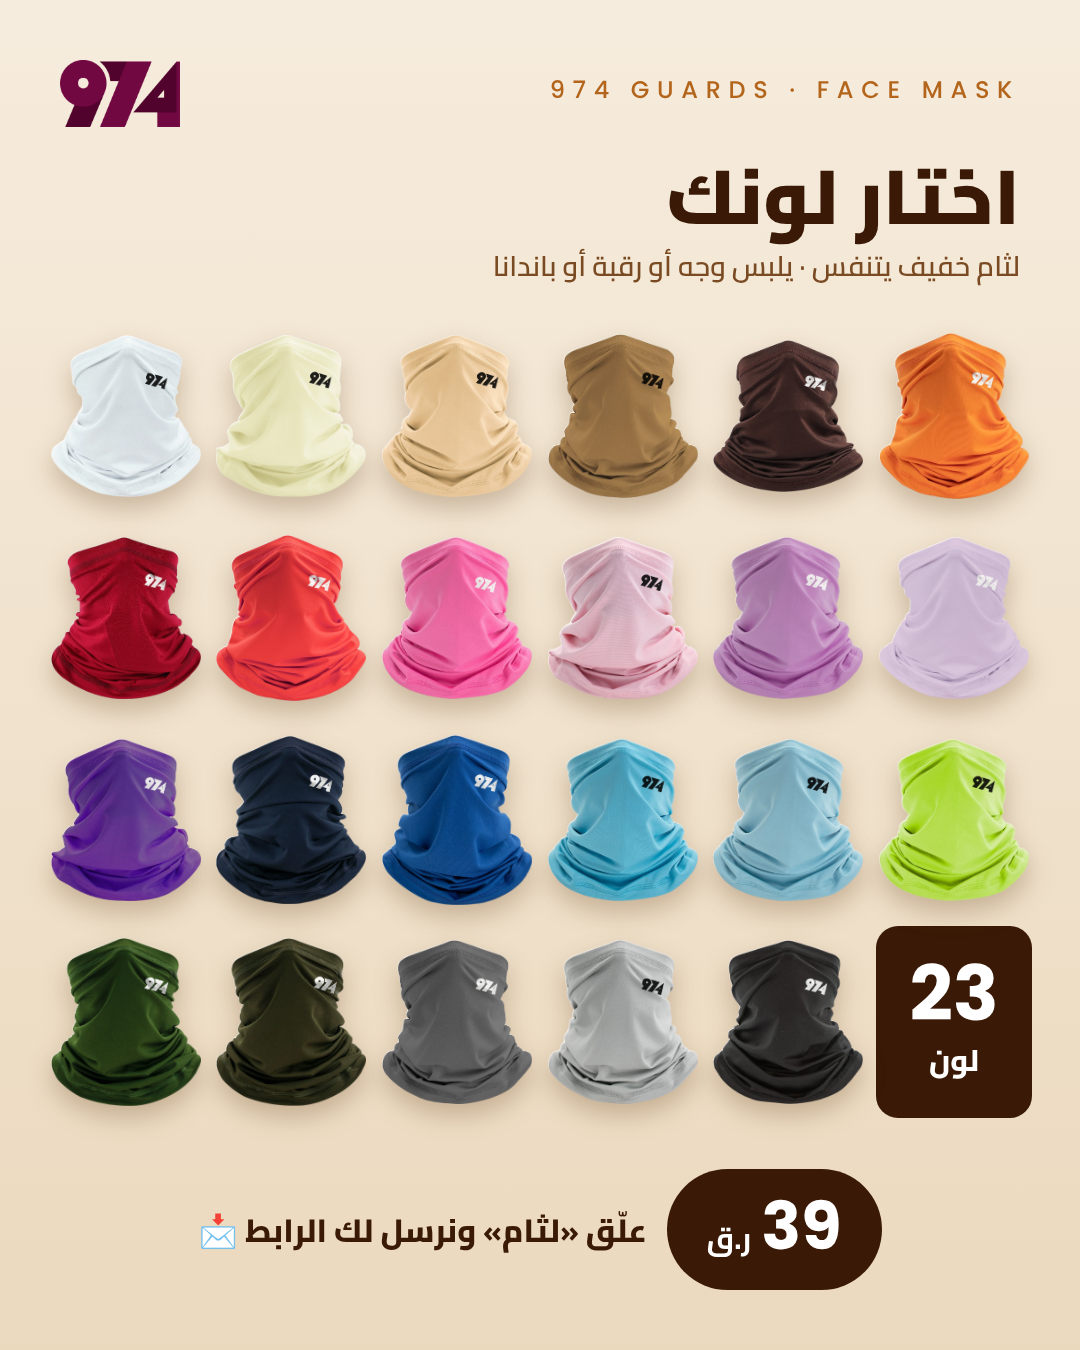
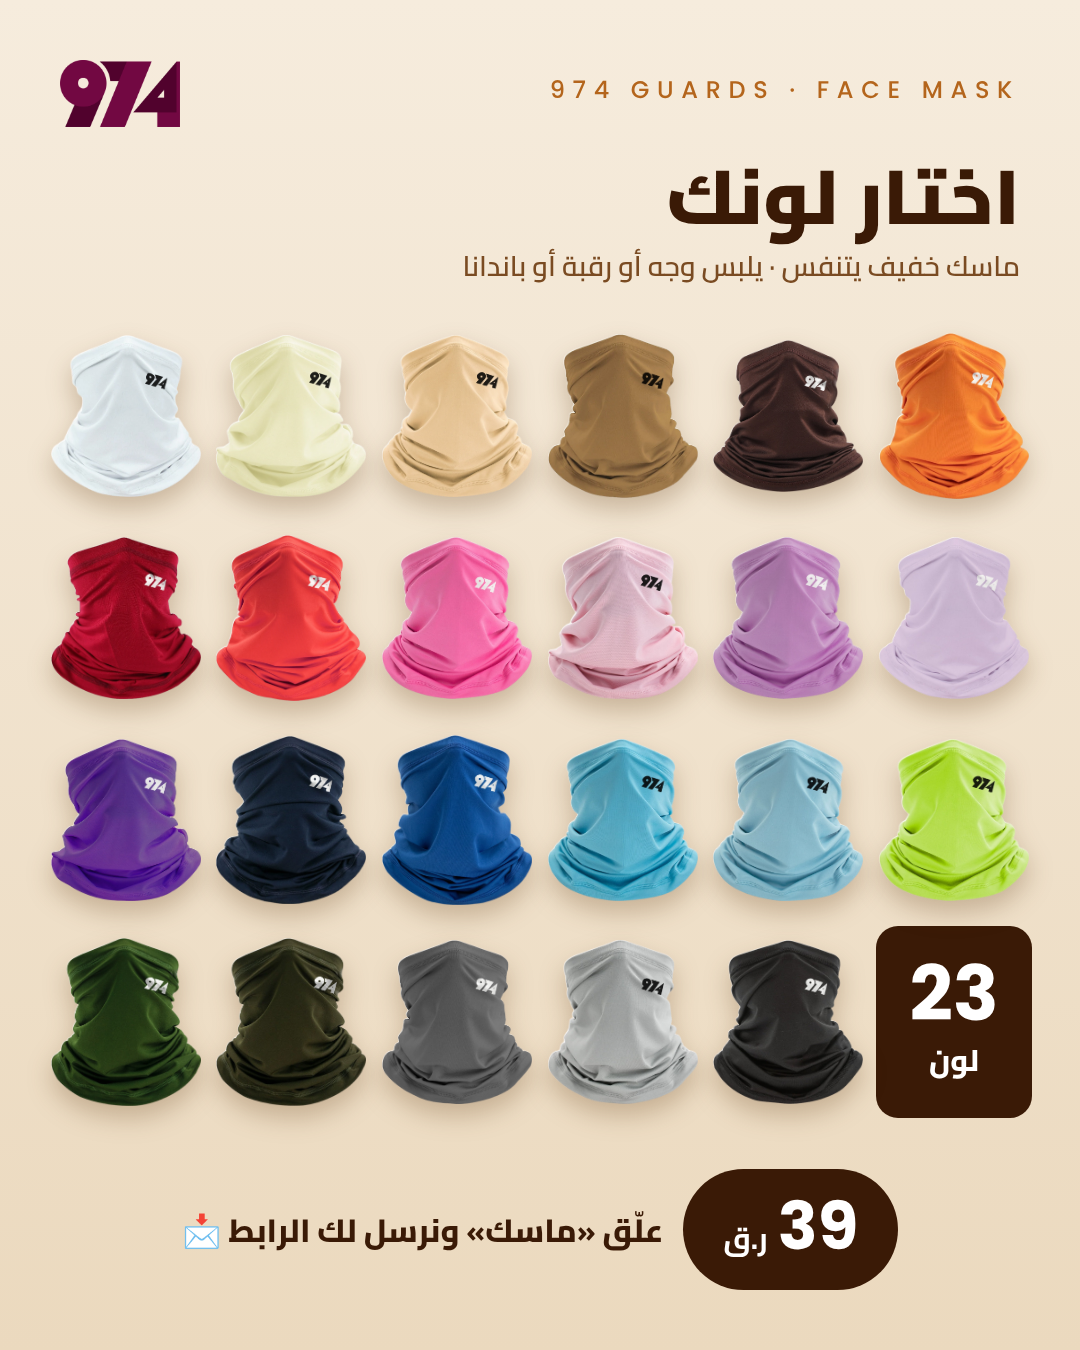
Face mask: headline ماسكك جاهز, CTA ماسك
Claude-Session: https://claude.ai/code/session_01K6HDWNrArsGSJekW1VcEzV

Changed region(s): [[0.1528, 0.8711, 0.8556, 0.9644], [0.4278, 0.1867, 0.9472, 0.2178]]

diff --git a/posts/2026-11/face-mask/src/colors.html b/posts/2026-11/face-mask/src/colors.html
@@ -22,8 +22,8 @@ body{width:1080px;overflow:hidden;position:relative;font-family:Cairo}
 <img class="abs" src="mark-c.png" style="left:60px;top:60px;width:120px">
 <div class="abs kick" style="right:60px;top:72px;color:#B4651C">974 GUARDS · FACE MASK</div>
 <div class="abs" style="right:60px;top:125px;font:900 76px Cairo;direction:rtl;color:#3A1A06">اختار لونك</div>
-<div class="abs" style="right:60px;top:240px;font:600 28px Cairo;direction:rtl;color:#7A4B22">لثام خفيف يتنفس · يلبس وجه أو رقبة أو باندانا</div>
+<div class="abs" style="right:60px;top:240px;font:600 28px Cairo;direction:rtl;color:#7A4B22">ماسك خفيف يتنفس · يلبس وجه أو رقبة أو باندانا</div>
 <div class="g"><div class="cell"><img src="cut/white.png"></div><div class="cell"><img src="cut/cream.png"></div><div class="cell"><img src="cut/beige.png"></div><div class="cell"><img src="cut/khaki.png"></div><div class="cell"><img src="cut/brown.png"></div><div class="cell"><img src="cut/orange.png"></div><div class="cell"><img src="cut/red.png"></div><div class="cell"><img src="cut/brightred.png"></div><div class="cell"><img src="cut/hotpink.png"></div><div class="cell"><img src="cut/pink.png"></div><div class="cell"><img src="cut/lilac.png"></div><div class="cell"><img src="cut/lightpurple.png"></div><div class="cell"><img src="cut/purple.png"></div><div class="cell"><img src="cut/navy.png"></div><div class="cell"><img src="cut/royalblue.png"></div><div class="cell"><img src="cut/skyblue.png"></div><div class="cell"><img src="cut/babyblue.png"></div><div class="cell"><img src="cut/lightgreen.png"></div><div class="cell"><img src="cut/green.png"></div><div class="cell"><img src="cut/armygreen.png"></div><div class="cell"><img src="cut/darkgrey.png"></div><div class="cell"><img src="cut/grey.png"></div><div class="cell"><img src="cut/black.png"></div><div class="cnt"><b>23</b><span>لون</span></div></div>
 <div class="abs" style="left:0;right:0;bottom:60px;display:flex;justify-content:center;gap:20px;direction:rtl;align-items:center">
-<div class="pill" style="background:#3A1A06;color:#fff;box-shadow:none">39 <i>ر.ق</i></div><div style="font:800 32px Cairo;color:#3A1A06">علّق «لثام» ونرسل لك الرابط 📩</div></div>
+<div class="pill" style="background:#3A1A06;color:#fff;box-shadow:none">39 <i>ر.ق</i></div><div style="font:800 32px Cairo;color:#3A1A06">علّق «ماسك» ونرسل لك الرابط 📩</div></div>
 </body></html>

diff --git a/posts/2026-11/face-mask/src/story.html b/posts/2026-11/face-mask/src/story.html
@@ -18,11 +18,11 @@ body{width:1080px;overflow:hidden;position:relative;font-family:Cairo}
 <div class="abs" style="inset:0;background:linear-gradient(rgba(30,10,30,.4),rgba(0,0,0,0) 30%,rgba(0,0,0,0) 60%,rgba(40,15,0,.55))"></div>
 <img class="abs" src="mark-w.png" style="left:50%;transform:translateX(-50%);top:240px;width:140px">
 <div class="abs kick" style="left:0;right:0;text-align:center;top:340px;padding-left:.32em">974 GUARDS · FACE MASK</div>
-<div class="abs h" style="left:0;right:0;top:390px;text-align:center">شمس.. غبار.. هوا<br><b>لثامك جاهز</b> 🏜</div>
+<div class="abs h" style="left:0;right:0;top:390px;text-align:center">شمس.. غبار.. هوا<br><b>ماسكك جاهز</b> 🏜</div>
 <img class="m" src="cut/khaki.png" style="left:40px;top:900px;width:280px">
 <img class="m" src="cut/black.png" style="left:365px;top:820px;width:350px">
 <img class="m" src="cut/orange.png" style="left:760px;top:900px;width:280px">
 <div class="abs chips" style="left:0;right:0;top:1330px"><span>23 لون</span><span>يتنفس</span><span>45 غرام</span></div>
 <div class="abs" style="left:0;right:0;top:1440px;text-align:center"><div class="pill">39 <i>ر.ق</i></div></div>
-<div class="abs cta" style="left:0;right:0;top:1590px;text-align:center">علّق «لثام» ونرسل لك الرابط 📩</div>
+<div class="abs cta" style="left:0;right:0;top:1590px;text-align:center">علّق «ماسك» ونرسل لك الرابط 📩</div>
 </body></html>

diff --git a/posts/2026-11/face-mask/src/hero.html b/posts/2026-11/face-mask/src/hero.html
@@ -18,11 +18,11 @@ body{width:1080px;overflow:hidden;position:relative;font-family:Cairo}
 <div class="abs" style="inset:0;background:linear-gradient(rgba(30,10,30,.35),rgba(0,0,0,0) 35%,rgba(0,0,0,0) 65%,rgba(40,15,0,.45))"></div>
 <img class="abs" src="mark-w.png" style="left:60px;top:60px;width:120px">
 <div class="abs kick" style="right:60px;top:72px">974 GUARDS · FACE MASK</div>
-<div class="abs h" style="right:0;left:0;top:130px;text-align:center">شمس.. غبار.. هوا<br><b>لثامك جاهز</b> 🏜</div>
+<div class="abs h" style="right:0;left:0;top:130px;text-align:center">شمس.. غبار.. هوا<br><b>ماسكك جاهز</b> 🏜</div>
 <img class="m" src="cut/khaki.png" style="left:40px;top:600px;width:280px">
 <img class="m" src="cut/black.png" style="left:365px;top:520px;width:350px">
 <img class="m" src="cut/orange.png" style="left:760px;top:600px;width:280px">
 <div class="abs chips" style="left:0;right:0;top:1000px"><span>23 لون</span><span>يتنفس</span><span>خفيف 45 غرام</span><span>يلبس مع النظارة</span></div>
 <div class="abs" style="left:0;right:0;top:1100px;text-align:center"><div class="pill">39 <i>ر.ق</i></div></div>
-<div class="abs cta" style="left:0;right:0;top:1250px;text-align:center">علّق «لثام» ونرسل لك الرابط 📩</div>
+<div class="abs cta" style="left:0;right:0;top:1250px;text-align:center">علّق «ماسك» ونرسل لك الرابط 📩</div>
 </body></html>
